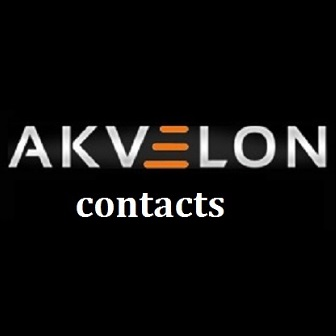
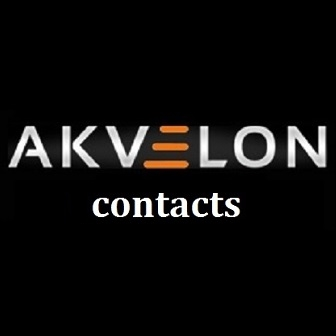
fixad dysplay name in windows phone

Changed region(s): [[0.2083, 0.5655, 0.7143, 0.6548]]

diff --git a/AkvelonContacts.WindowsPhone/Resources/AppResources.Designer.cs b/AkvelonContacts.WindowsPhone/Resources/AppResources.Designer.cs
@@ -1,18 +1,17 @@
 //------------------------------------------------------------------------------
 // <auto-generated>
 //     This code was generated by a tool.
-//     Runtime Version:4.0.30319.17626
+//     Runtime Version:4.0.30319.34014
 //
 //     Changes to this file may cause incorrect behavior and will be lost if
 //     the code is regenerated.
 // </auto-generated>
 //------------------------------------------------------------------------------
 
-namespace AkvelonContacts.WindowsPhone.Resources
-{
+namespace AkvelonContacts.WindowsPhone.Resources {
     using System;
-
-
+    
+    
     /// <summary>
     ///   A strongly-typed resource class, for looking up localized strings, etc.
     /// </summary>
@@ -23,104 +22,86 @@ namespace AkvelonContacts.WindowsPhone.Resources
     [global::System.CodeDom.Compiler.GeneratedCodeAttribute("System.Resources.Tools.StronglyTypedResourceBuilder", "4.0.0.0")]
     [global::System.Diagnostics.DebuggerNonUserCodeAttribute()]
     [global::System.Runtime.CompilerServices.CompilerGeneratedAttribute()]
-    public class AppResources
-    {
-
+    public class AppResources {
+        
         private static global::System.Resources.ResourceManager resourceMan;
-
+        
         private static global::System.Globalization.CultureInfo resourceCulture;
-
+        
         [global::System.Diagnostics.CodeAnalysis.SuppressMessageAttribute("Microsoft.Performance", "CA1811:AvoidUncalledPrivateCode")]
-        internal AppResources()
-        {
+        internal AppResources() {
         }
-
+        
         /// <summary>
         ///   Returns the cached ResourceManager instance used by this class.
         /// </summary>
         [global::System.ComponentModel.EditorBrowsableAttribute(global::System.ComponentModel.EditorBrowsableState.Advanced)]
-        public static global::System.Resources.ResourceManager ResourceManager
-        {
-            get
-            {
-                if (object.ReferenceEquals(resourceMan, null))
-                {
+        public static global::System.Resources.ResourceManager ResourceManager {
+            get {
+                if (object.ReferenceEquals(resourceMan, null)) {
                     global::System.Resources.ResourceManager temp = new global::System.Resources.ResourceManager("AkvelonContacts.WindowsPhone.Resources.AppResources", typeof(AppResources).Assembly);
                     resourceMan = temp;
                 }
                 return resourceMan;
             }
         }
-
+        
         /// <summary>
         ///   Overrides the current thread's CurrentUICulture property for all
         ///   resource lookups using this strongly typed resource class.
         /// </summary>
         [global::System.ComponentModel.EditorBrowsableAttribute(global::System.ComponentModel.EditorBrowsableState.Advanced)]
-        public static global::System.Globalization.CultureInfo Culture
-        {
-            get
-            {
+        public static global::System.Globalization.CultureInfo Culture {
+            get {
                 return resourceCulture;
             }
-            set
-            {
+            set {
                 resourceCulture = value;
             }
         }
-
+        
         /// <summary>
-        ///   Looks up a localized string similar to LeftToRight.
+        ///   Looks up a localized string similar to add.
         /// </summary>
-        public static string ResourceFlowDirection
-        {
-            get
-            {
-                return ResourceManager.GetString("ResourceFlowDirection", resourceCulture);
-            }
-        }
-
-        /// <summary>
-        ///   Looks up a localized string similar to us-EN.
-        /// </summary>
-        public static string ResourceLanguage
-        {
-            get
-            {
-                return ResourceManager.GetString("ResourceLanguage", resourceCulture);
-            }
-        }
-
-        /// <summary>
-        ///   Looks up a localized string similar to MY APPLICATION.
-        /// </summary>
-        public static string ApplicationTitle
-        {
-            get
-            {
-                return ResourceManager.GetString("ApplicationTitle", resourceCulture);
-            }
-        }
-
-        /// <summary>
-        ///   Looks up a localized string similar to button.
-        /// </summary>
-        public static string AppBarButtonText
-        {
-            get
-            {
+        public static string AppBarButtonText {
+            get {
                 return ResourceManager.GetString("AppBarButtonText", resourceCulture);
             }
         }
-
+        
         /// <summary>
-        ///   Looks up a localized string similar to menu item.
+        ///   Looks up a localized string similar to Menu Item.
         /// </summary>
-        public static string AppBarMenuItemText
-        {
-            get
-            {
+        public static string AppBarMenuItemText {
+            get {
                 return ResourceManager.GetString("AppBarMenuItemText", resourceCulture);
+            }
+        }
+        
+        /// <summary>
+        ///   Looks up a localized string similar to MY APPLICATION.
+        /// </summary>
+        public static string ApplicationTitle {
+            get {
+                return ResourceManager.GetString("ApplicationTitle", resourceCulture);
+            }
+        }
+        
+        /// <summary>
+        ///   Looks up a localized string similar to LeftToRight.
+        /// </summary>
+        public static string ResourceFlowDirection {
+            get {
+                return ResourceManager.GetString("ResourceFlowDirection", resourceCulture);
+            }
+        }
+        
+        /// <summary>
+        ///   Looks up a localized string similar to en-US.
+        /// </summary>
+        public static string ResourceLanguage {
+            get {
+                return ResourceManager.GetString("ResourceLanguage", resourceCulture);
             }
         }
     }

diff --git a/AkvelonContacts.WindowsPhone/Properties/AssemblyInfo.cs b/AkvelonContacts.WindowsPhone/Properties/AssemblyInfo.cs
@@ -7,11 +7,11 @@ using System.Resources;
 // General Information about an assembly is controlled through the following 
 // set of attributes. Change these attribute values to modify the information
 // associated with an assembly.
-[assembly: AssemblyTitle("AkvelonContacts.WindowsPhone")]
+[assembly: AssemblyTitle("Akvelon contacts")]
 [assembly: AssemblyDescription("")]
 [assembly: AssemblyConfiguration("")]
 [assembly: AssemblyCompany("")]
-[assembly: AssemblyProduct("AkvelonContacts.WindowsPhone")]
+[assembly: AssemblyProduct("Akvelon contacts")]
 [assembly: AssemblyCopyright("Copyright ©  2014")]
 [assembly: AssemblyTrademark("")]
 [assembly: AssemblyCulture("")]
